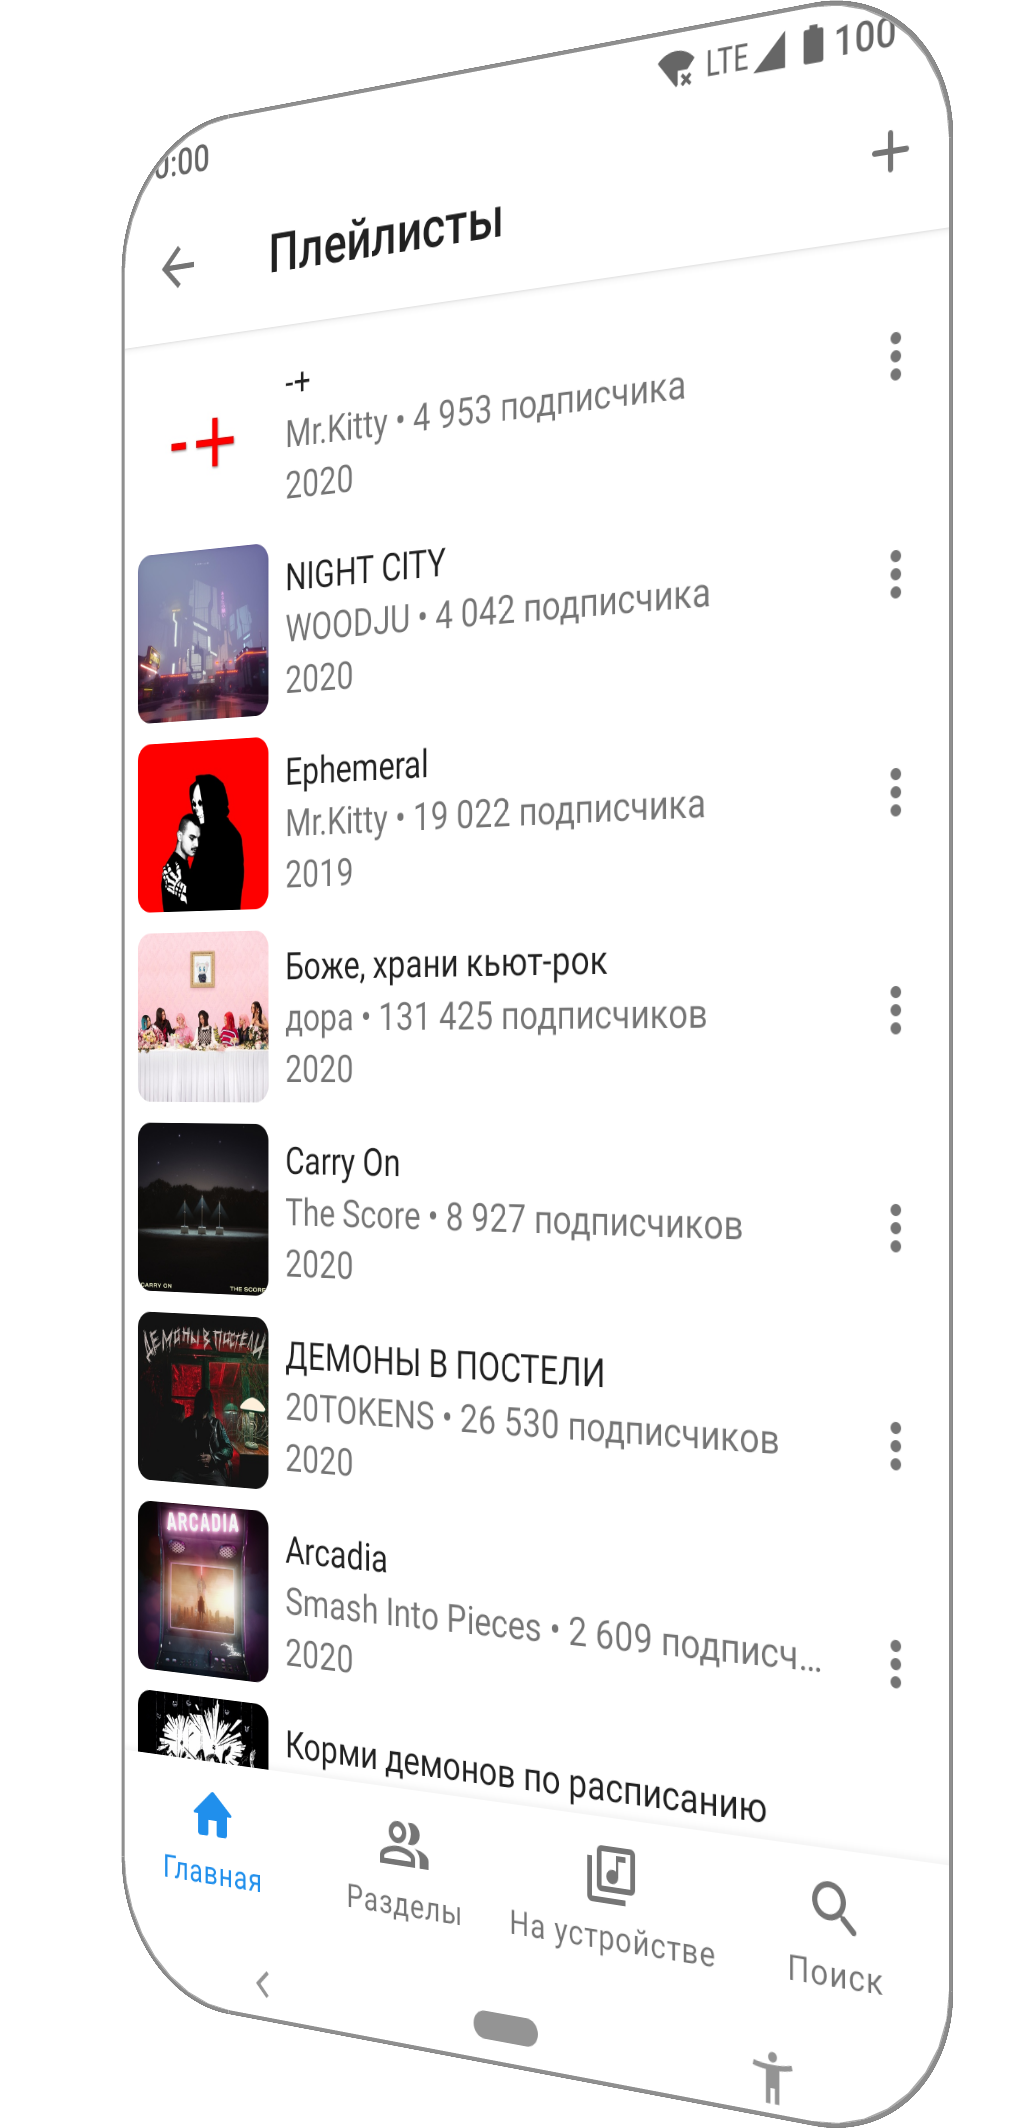
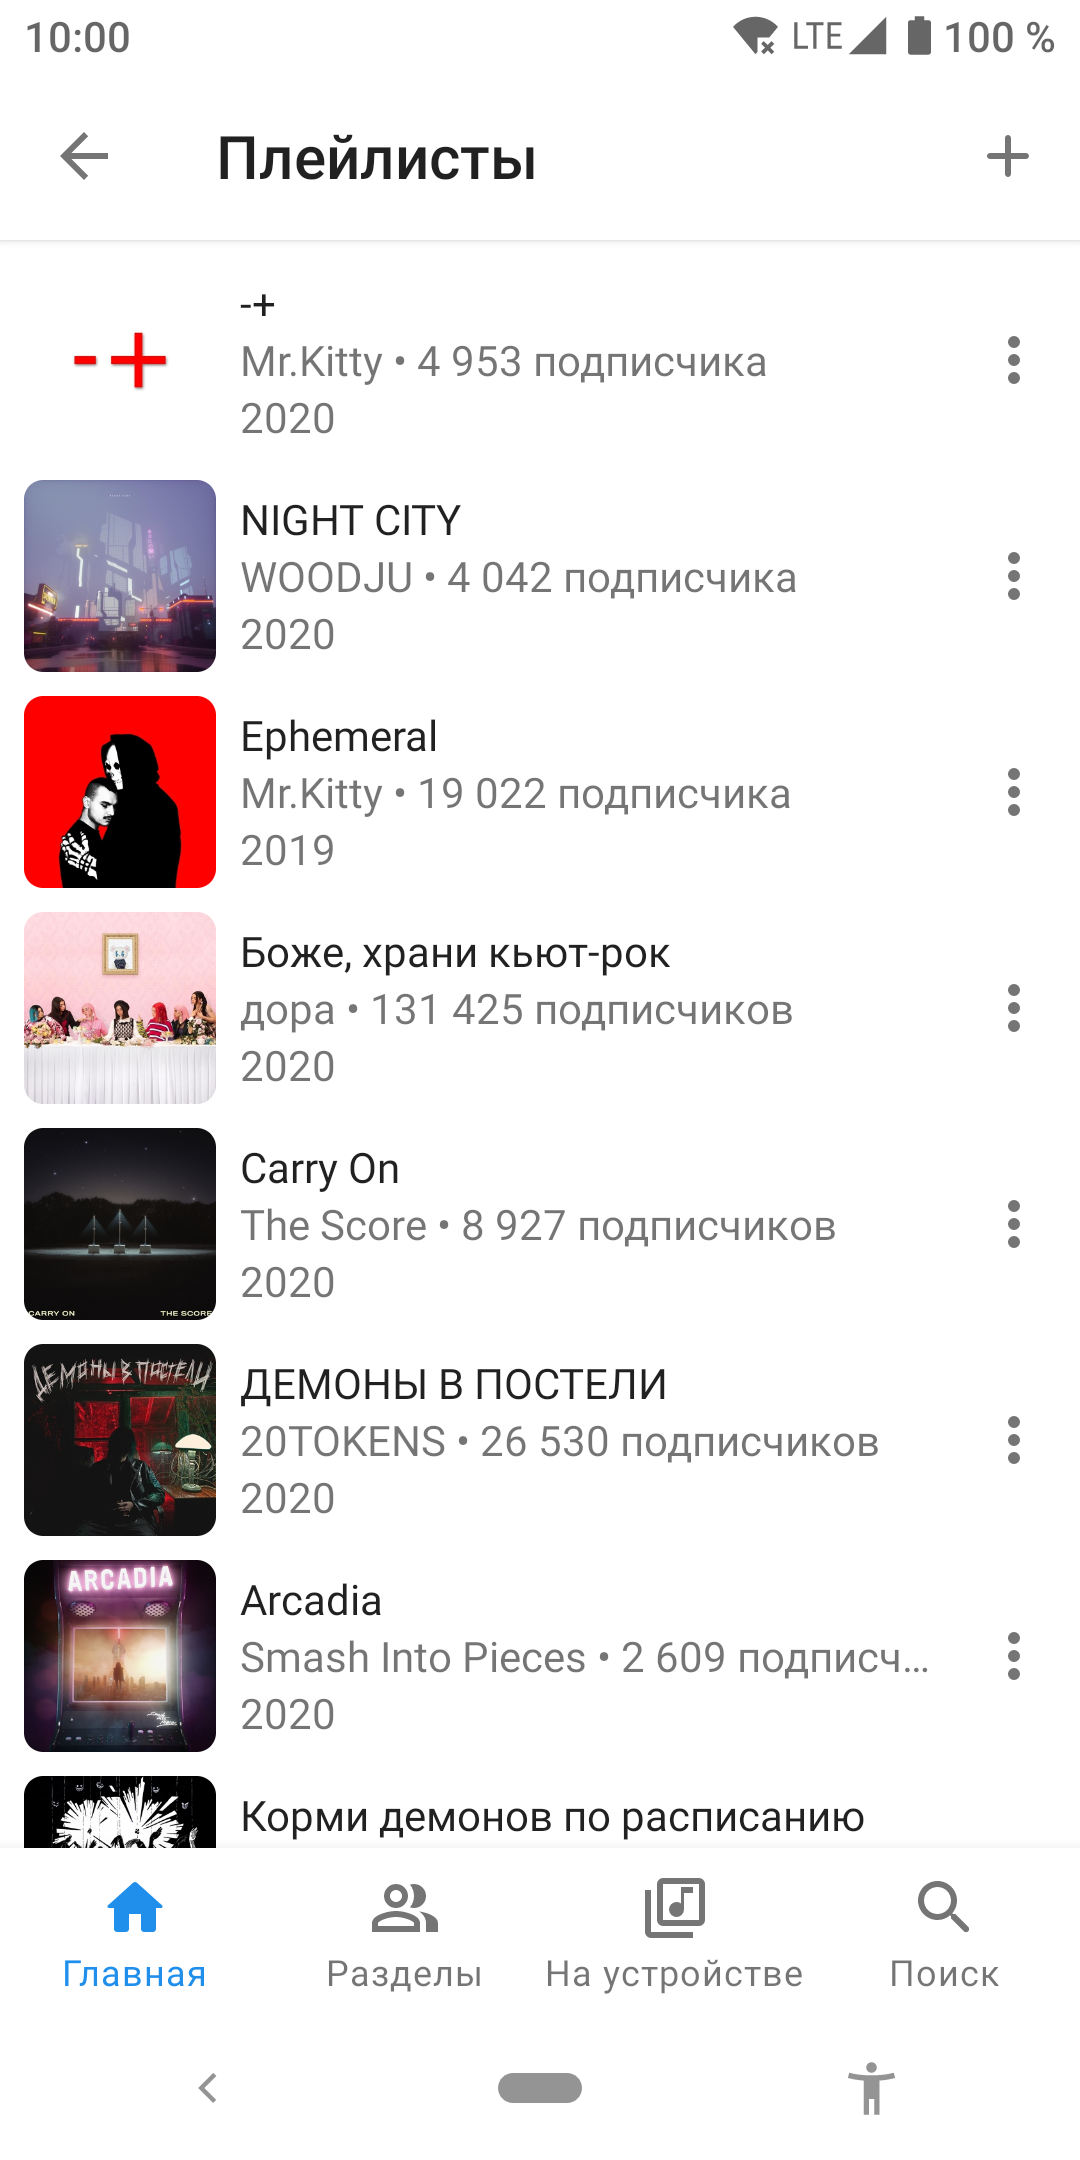
- screenshots updated

diff --git a/css/style.css b/css/style.css
@@ -6,6 +6,78 @@ html {
     font: 17px/24px -apple-system, BlinkMacSystemFont, Roboto, Open Sans, Helvetica Neue, sans-serif
 }
 
+body { font-family: sans-serif; }
+
+.scene {
+    border: 0px solid #CCC;
+    perspective: 600px;
+    left:430px;
+    position: absolute;
+    width: 299px;
+    height: 600px;
+}
+
+.card {
+    width: 100%;
+    height: 100%;
+    transition: transform 1s;
+    transform-style: preserve-3d;
+    cursor: pointer;
+}
+
+.card.is-flipped {
+    transform: rotateY(180deg);
+}
+
+
+.phone {
+    vertical-align: top;
+    max-width: 100%;
+    margin: 0 0 40px;
+    height: 100%;
+}
+
+
+.phone {
+    position: absolute;
+    width: 100%;
+    line-height: 260px;
+    color: white;
+    text-align: center;
+    font-weight: bold;
+    font-size: 40px;
+    -webkit-backface-visibility: hidden;
+    backface-visibility: hidden;
+    vertical-align: top;
+    max-width: 100%;
+    margin: 0 0 40px;
+    height: 100%;
+}
+
+.phone--android2--front{
+    border-radius: 20px;
+    background: url('../img/screen1.png') no-repeat center;
+}
+
+.phone--android2--back {
+    border-radius: 20px;
+    background: url('../img/screen0.png') no-repeat center;
+    transform: rotateY(180deg);
+}
+
+.phone--android2 {
+    background-size: cover;
+}
+
+.phone--android {
+    top: -40px;
+    right: 279px;
+    border-radius: 20px;
+    background: url('../img/screen2.png') no-repeat center;
+    background-size: cover;
+    padding-top: 20px;
+}
+
 
 /* The Modal (background) */
 .modal {
@@ -77,7 +149,7 @@ a:hover {
 
 .page {
     height: 100%;
-    width: 940px;
+    width: 1140px;
     margin: auto
 }
 
@@ -230,7 +302,7 @@ a:hover {
 
 .picture {
     position: absolute;
-    top: 0;
+    top: 40px;
     right: 0;
     width: 665px;
     height: 100%;
@@ -253,46 +325,6 @@ a:hover {
         margin-left: auto;
         margin-right: auto;
     }
-}
-
-.phone {
-    vertical-align: top;
-    max-width: 100%;
-    margin: 0 0 40px;
-    height: 100%;
-}
-
-
-.phone--android3 {
-    top: 37px;
-    right: -233px;
-    height: 100%;
-    background: url('../img/screen0.png') no-repeat center;
-    background-size: contain;
-    -o-transform: translateY(calc(var(--koef) * 0.5 * 30px));
-    transform: translateY(calc(var(--koef) * 0.5 * 30px));
-    padding-top: 20px;
-}
-
-.phone--android2 {
-    top: 22px;
-    right: 8px;
-    height: 100%;
-    background: url('../img/screen1.png') no-repeat center;
-    background-size: contain;
-    -o-transform: translateY(calc(var(--koef) * 0.5 * 30px));
-    transform: translateY(calc(var(--koef) * 0.5 * 30px));
-    padding-top: 20px;
-}
-
-.phone--android {
-    top: -40px;
-    right: 279px;
-    background: url('../img/screen2.png') no-repeat center;
-    background-size: contain;
-    -o-transform: translateY(calc(var(--koef) * 30px));
-    transform: translateY(calc(var(--koef) * 30px));
-    padding-top: 20px;
 }
 
 @media screen and (max-width: 940px) {
@@ -332,15 +364,12 @@ a:hover {
     }
     .phone--android3{
         width: 269px;
-        height: 505px
     }
     .phone--android2 {
         width: 299px;
-        height: 561px
     }
     .phone--android {
         width: 330px;
-        height: 677px
     }
 }
 
@@ -385,7 +414,7 @@ a:hover {
     -ms-flex: 0 0 16px;
     flex: 0 0 16px;
     padding: 230px 0;
-    width: 940px;
+    width: 1140px;
     margin: auto
 }
 

diff --git a/css/style-dark.css b/css/style-dark.css
@@ -78,7 +78,7 @@ a:hover {
 
 .page {
     height: 100%;
-    width: 940px;
+    width: 1140px;
     margin: auto
 }
 
@@ -231,7 +231,7 @@ a:hover {
 
 .picture {
     position: absolute;
-    top: 0;
+    top: 40px;
     right: 0;
     width: 665px;
     height: 100%;
@@ -264,35 +264,73 @@ a:hover {
 }
 
 
-.phone--android3 {
-    top: 37px;
-    right: -233px;
+.scene {
+    border: 0px solid #CCC;
+    perspective: 600px;
+    left:430px;
+    position: absolute;
+    width: 299px;
+    height: 600px;
+}
+
+.card {
+    width: 100%;
     height: 100%;
+    transition: transform 1s;
+    transform-style: preserve-3d;
+    cursor: pointer;
+}
+
+.card.is-flipped {
+    transform: rotateY(180deg);
+}
+
+
+.phone {
+    vertical-align: top;
+    max-width: 100%;
+    margin: 0 0 40px;
+    height: 100%;
+}
+
+
+.phone {
+    position: absolute;
+    width: 100%;
+    line-height: 260px;
+    color: white;
+    text-align: center;
+    font-weight: bold;
+    font-size: 40px;
+    -webkit-backface-visibility: hidden;
+    backface-visibility: hidden;
+    vertical-align: top;
+    max-width: 100%;
+    margin: 0 0 40px;
+    height: 100%;
+}
+
+.phone--android2--front{
+    background: url('../img/screen1.png') no-repeat center;
+    border-radius: 20px;
+}
+
+.phone--android2--back {
     background: url('../img/screen0.png') no-repeat center;
-    background-size: contain;
-    -o-transform: translateY(calc(var(--koef) * 0.5 * 30px));
-    transform: translateY(calc(var(--koef) * 0.5 * 30px));
-    padding-top: 20px;
+    border-radius: 20px;
+    transform: rotateY(180deg);
 }
 
 .phone--android2 {
-    top: 22px;
-    right: 8px;
-    height: 100%;
-    background: url('../img/screen1.png') no-repeat center;
-    background-size: contain;
-    -o-transform: translateY(calc(var(--koef) * 0.5 * 30px));
-    transform: translateY(calc(var(--koef) * 0.5 * 30px));
-    padding-top: 20px;
+    background-size: cover;
 }
 
 .phone--android {
     top: -40px;
     right: 279px;
+    border-radius: 20px;
     background: url('../img/screen2.png') no-repeat center;
-    background-size: contain;
-    -o-transform: translateY(calc(var(--koef) * 30px));
-    transform: translateY(calc(var(--koef) * 30px));
+    background-size: cover;
     padding-top: 20px;
 }
 
@@ -333,15 +371,12 @@ a:hover {
     }
     .phone--android3{
         width: 269px;
-        height: 505px
     }
     .phone--android2 {
         width: 299px;
-        height: 561px
     }
     .phone--android {
         width: 330px;
-        height: 677px
     }
 }
 
@@ -386,7 +421,7 @@ a:hover {
     -ms-flex: 0 0 16px;
     flex: 0 0 16px;
     padding: 230px 0;
-    width: 940px;
+    width: 1140px;
     margin: auto
 }
 

diff --git a/index.html b/index.html
@@ -69,9 +69,13 @@
 
                     <section class="page__content">
                         <div class="picture">
-                            <div class="phone phone--android3"></div>
-                            <div class="phone phone--android2"></div>
                             <div class="phone phone--android"></div>
+                            <div class="scene scene--card">
+                                <div class="card">
+                                    <div class="phone phone--android2 phone--android2--back"></div>
+                                    <div class="phone phone--android2 phone--android2--front"></div>
+                                </div>
+                            </div>
 
                         </div>
 
@@ -152,6 +156,15 @@
             theme.href = "css/style.css";
         }
     });
+
+    var card = document.querySelector('.card');
+    card.addEventListener( 'click', function() {
+        card.classList.toggle('is-flipped');
+    });
+    function flip() {
+        card.classList.toggle('is-flipped');
+    }
+    setTimeout(flip, 3000);
 </script>
 </body>
 </html>
